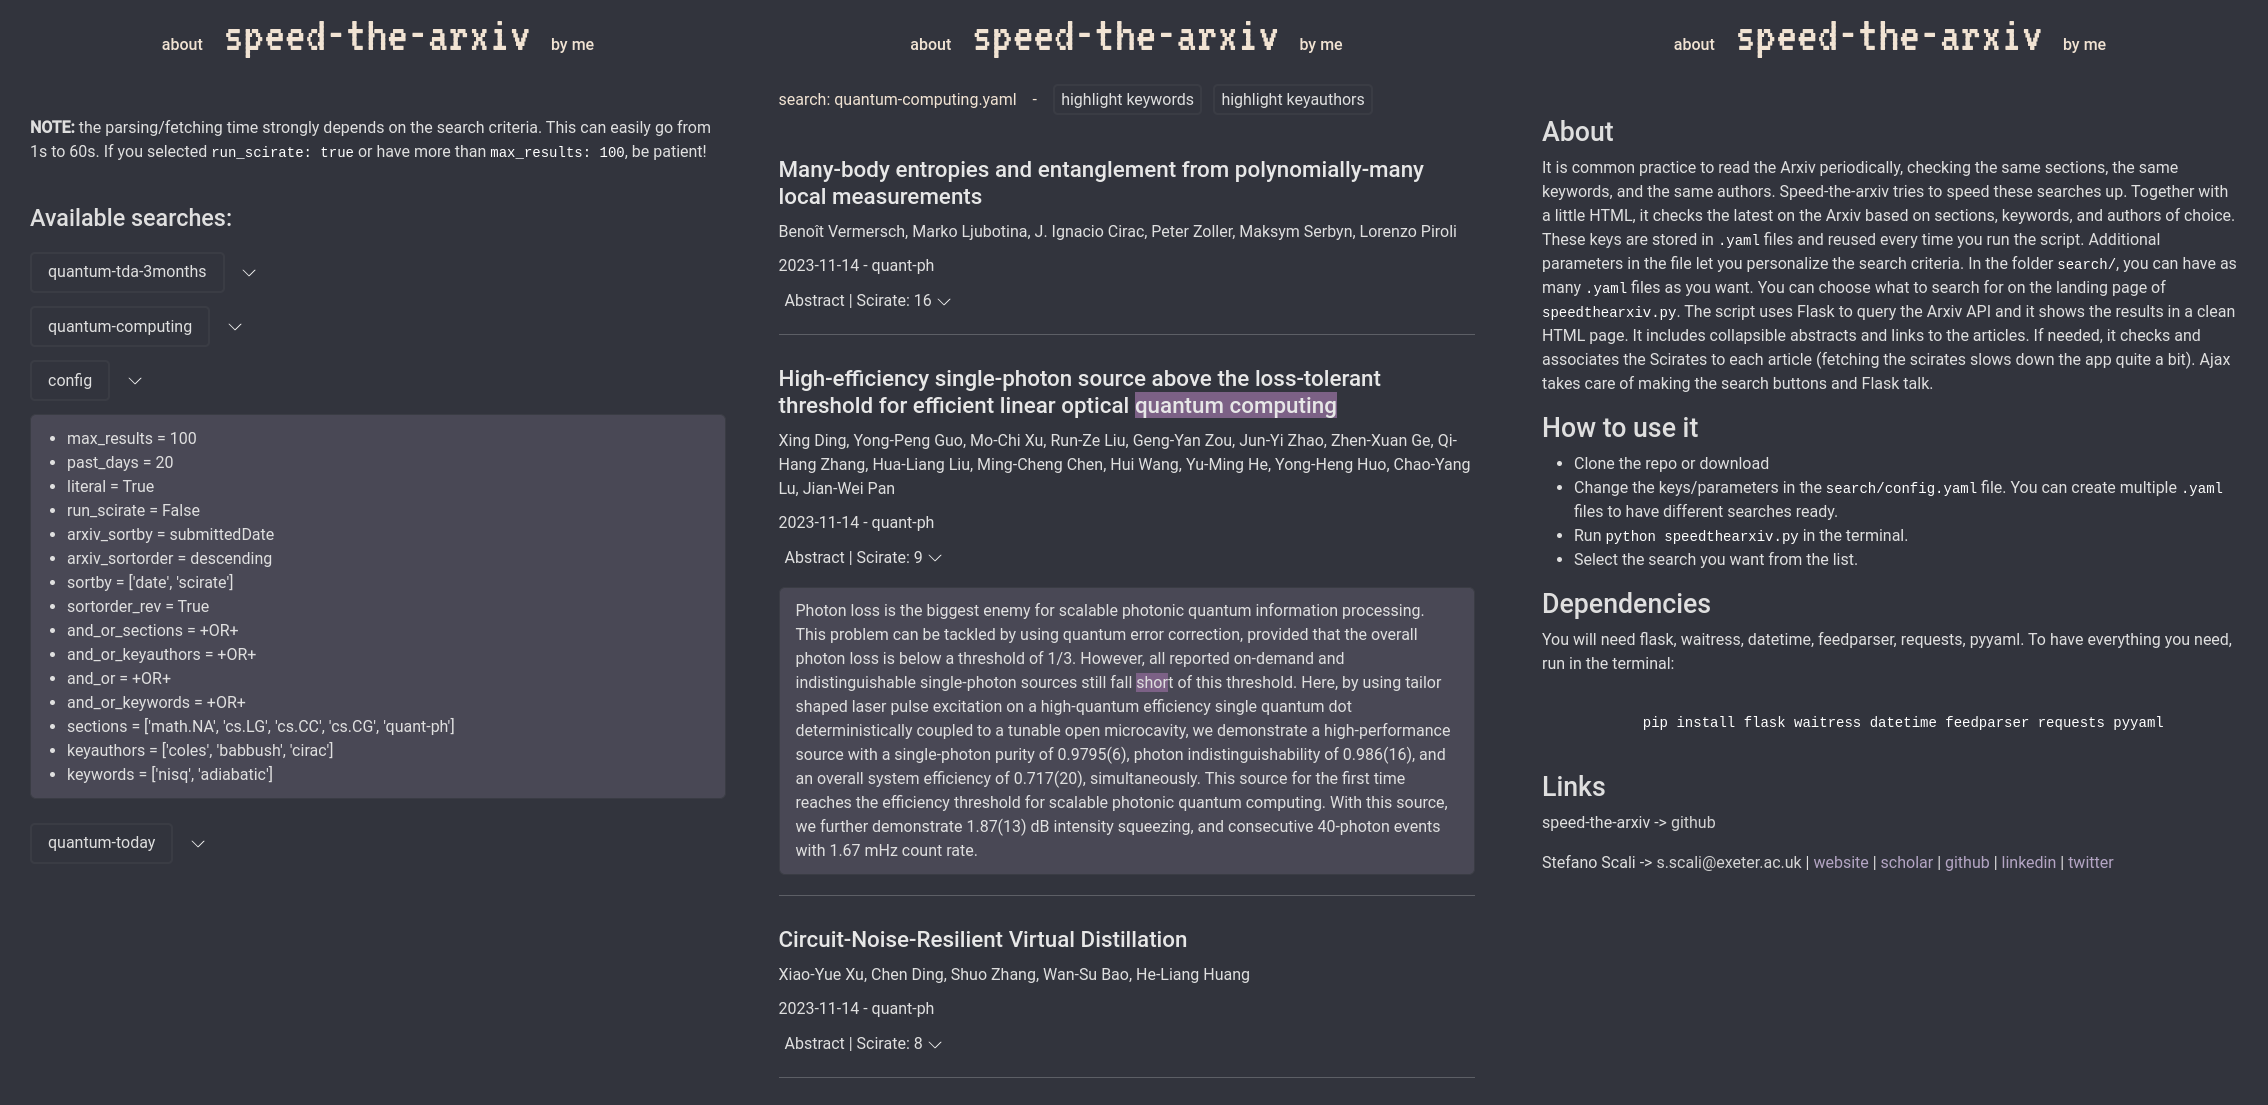
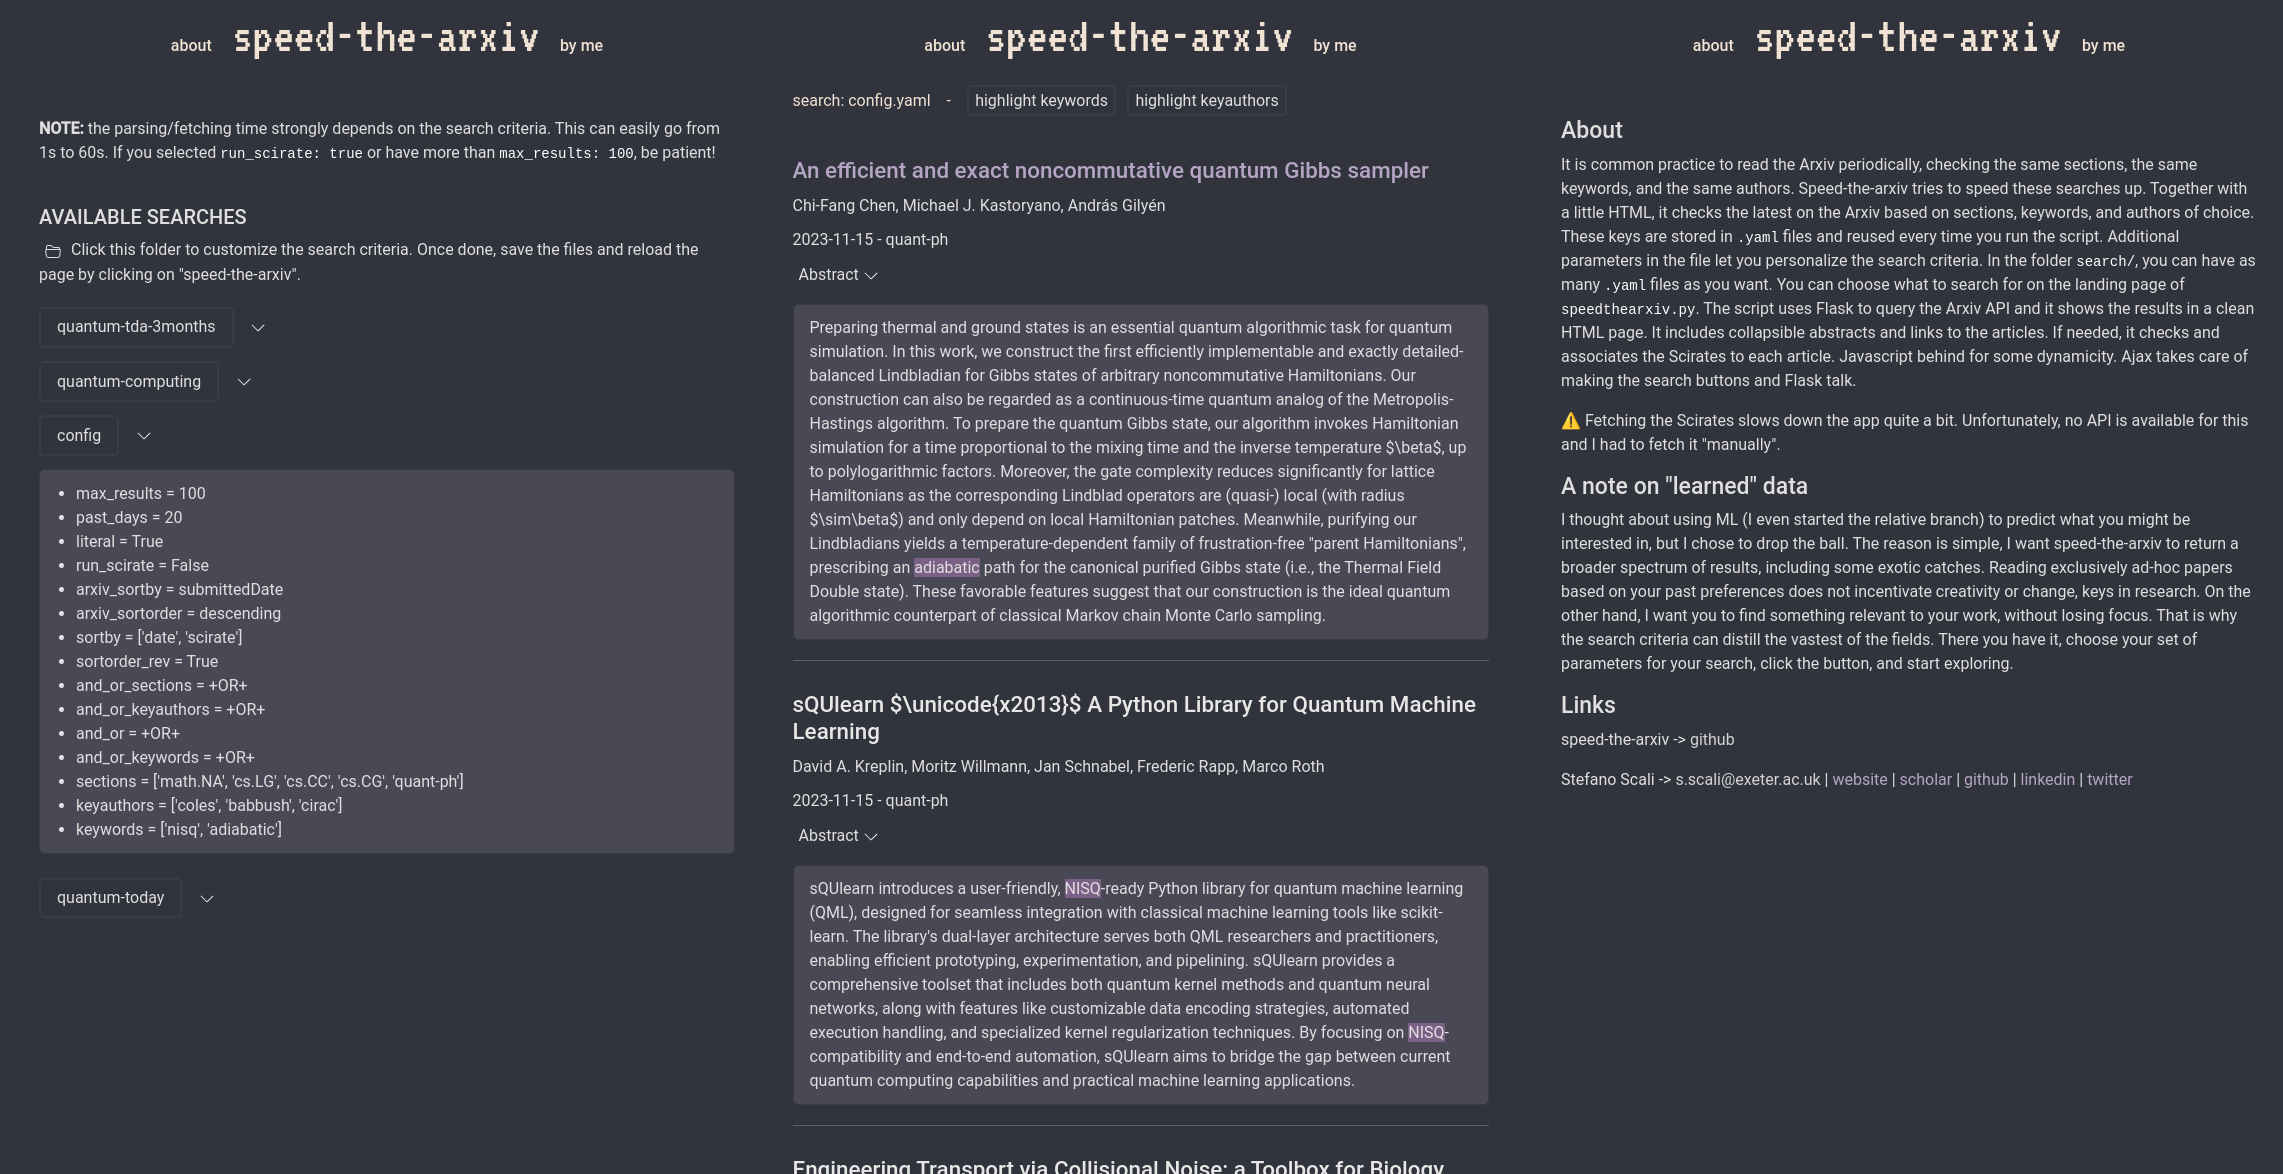
Update screenshot + fix paragraph in about

diff --git a/templates/about.html b/templates/about.html
@@ -4,22 +4,25 @@
 <div class="topmargin">
     <div class="about">
         <h4>About</h4>
-        <p> It is common practice to read the Arxiv periodically, checking the same sections, the same keywords, and the same authors. Speed-the-arxiv tries to speed these searches up.
+        <p>
+            It is common practice to read the Arxiv periodically, checking the same sections, the same keywords, and the same authors. Speed-the-arxiv tries to speed these searches up.
             Together with a little HTML, it checks the latest on the Arxiv based on sections, keywords, and authors of choice. 
             These keys are stored in <code>.yaml</code> files and reused every time you run the script. Additional parameters in the file let you personalize the search criteria. 
             In the folder <code>search/</code>, you can have as many <code>.yaml</code> files as you want. You can choose what to search for on the landing page of <code>speedthearxiv.py</code>.
             The script uses Flask to query the Arxiv API and it shows the results in a clean HTML page. It includes collapsible abstracts and links to the articles.
             If needed, it checks and associates the Scirates to each article. Javascript behind for some dynamicity.
-            Ajax takes care of making the search buttons and Flask talk.</p>
-
+            Ajax takes care of making the search buttons and Flask talk.
+        </p>
         <p>⚠ Fetching the Scirates slows down the app quite a bit. Unfortunately, no API is available for this and I had to fetch it "manually".</p>
 
         <h4>A note on "learned" data</h4>
-        I thought about using ML (I even started the relative branch) to predict what you might be interested in, but I chose to drop the ball.
-        The reason is simple, I want speed-the-arxiv to return a broader spectrum of results, including some exotic catches.
-        Reading exclusively ad-hoc papers based on your past preferences does not incentivate creativity or change, keys in research.
-        On the other hand, I want you to find something relevant to your work, without losing focus. That is why the search criteria can distill
-        the vastest of the fields. There you have it, choose your set of parameters for your search, click the button, and start exploring.
+        <p>
+            I thought about using ML (I even started the relative branch) to predict what you might be interested in, but I chose to drop the ball.
+            The reason is simple, I want speed-the-arxiv to return a broader spectrum of results, including some exotic catches.
+            Reading exclusively ad-hoc papers based on your past preferences does not incentivate creativity or change, keys in research.
+            On the other hand, I want you to find something relevant to your work, without losing focus. That is why the search criteria can distill
+            the vastest of the fields. There you have it, choose your set of parameters for your search, click the button, and start exploring.
+        </p>
 
         <h4>Links</h4>
             <p>speed-the-arxiv -> <a href="https://github.com/mekise/speed-the-arxiv/" target="_blank">github</a></p>
